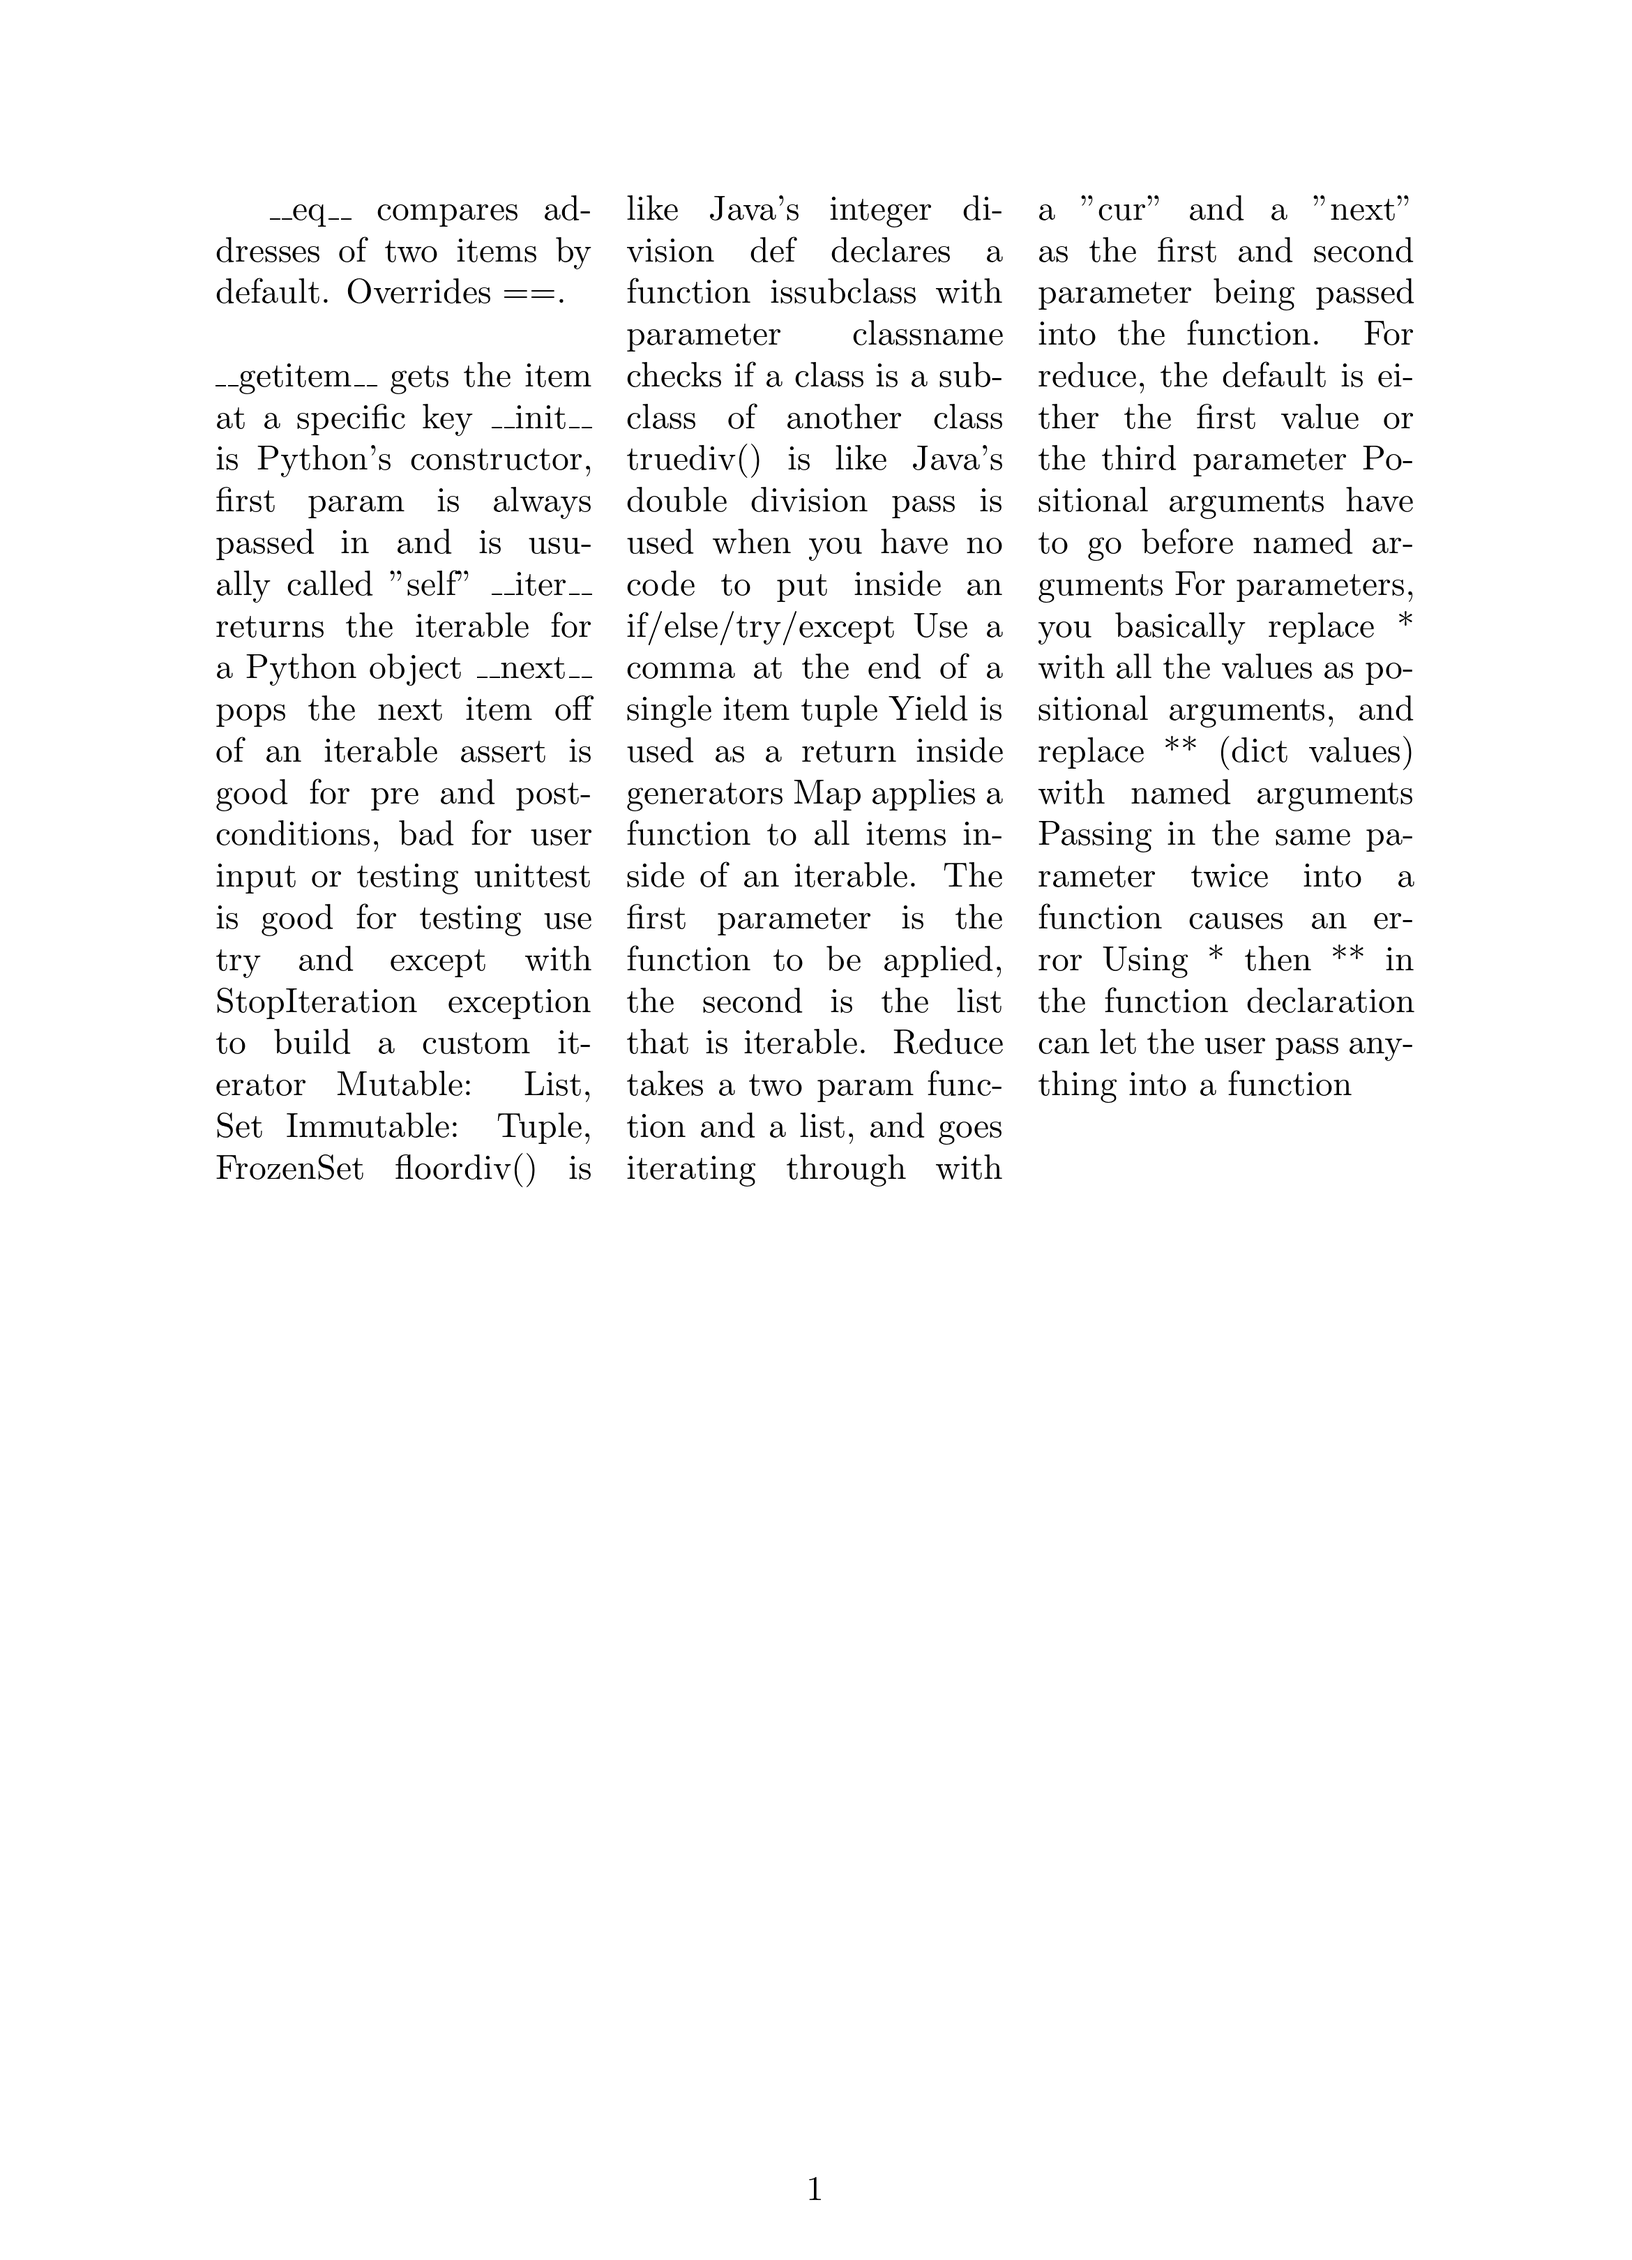
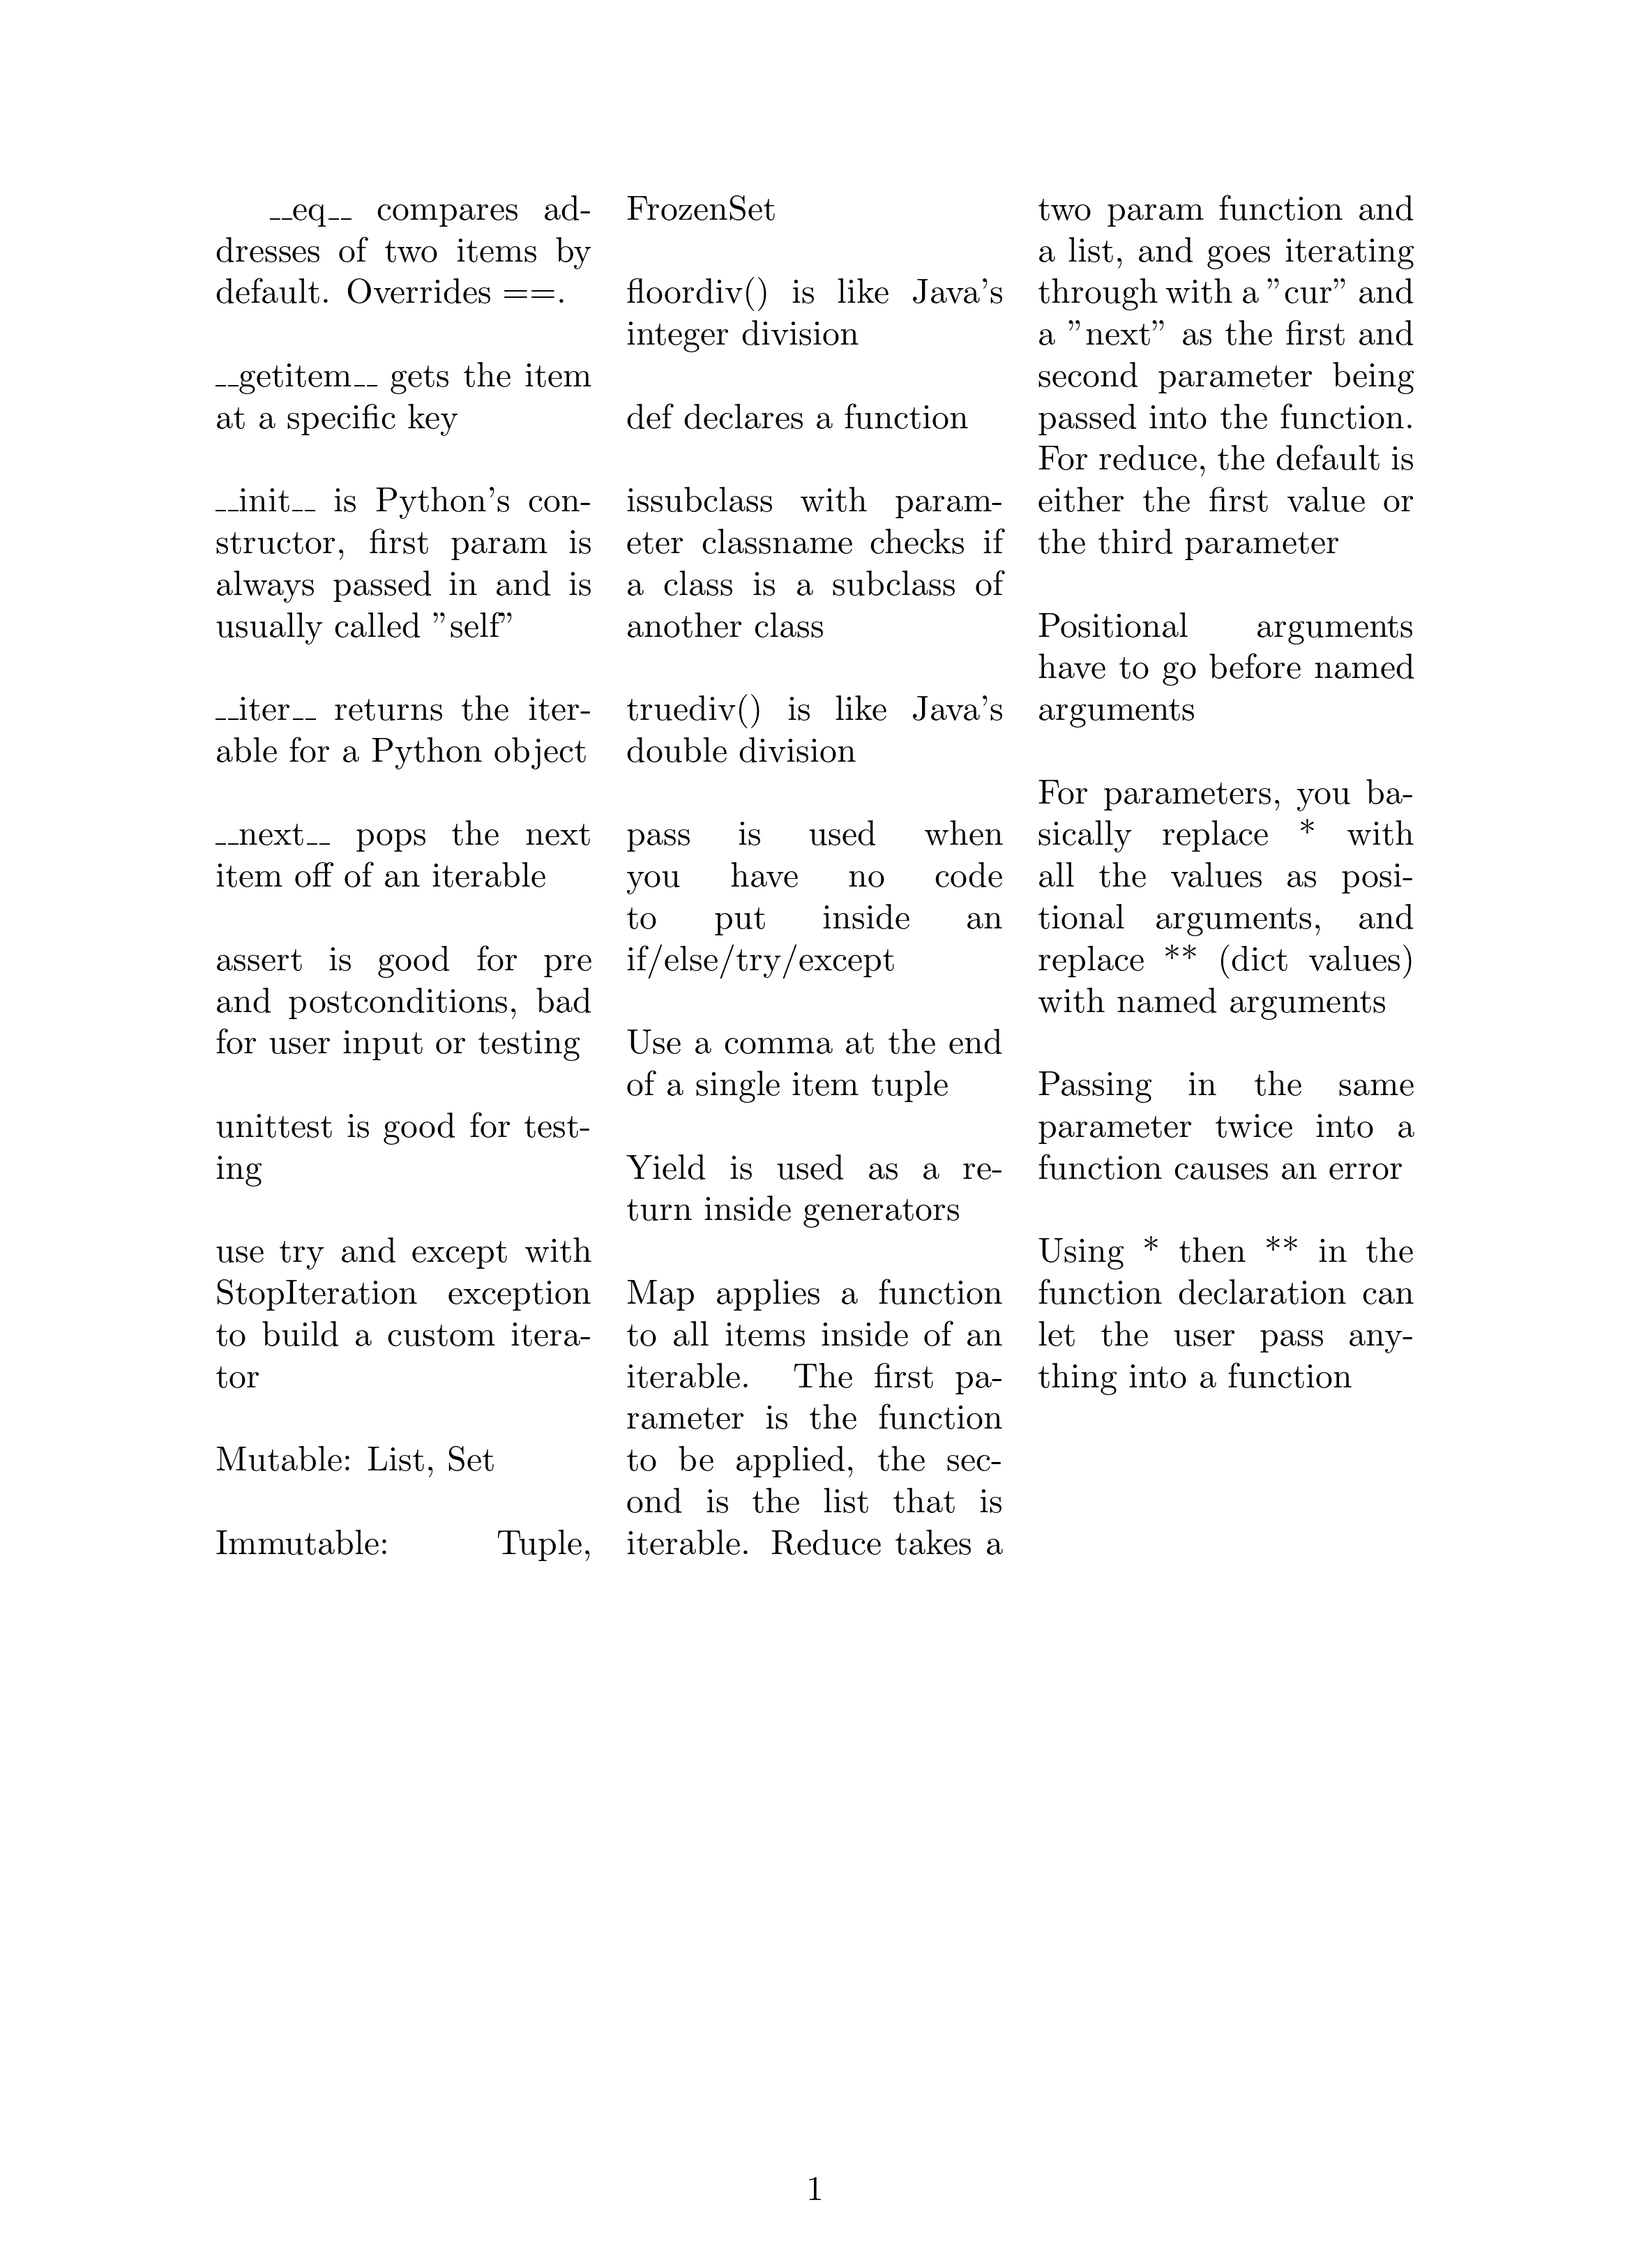
Fixed v1 formatting

diff --git a/Notes.tex b/Notes.tex
@@ -11,29 +11,29 @@
 \begin{multicols}{3}
 
 \_\_eq\_\_ compares addresses of two items by default. Overrides ==.\\\\
-\_\_getitem\_\_ gets the item at a specific key
-\_\_init\_\_ is Python's constructor, first param is always passed in and is usually called "self"
-\_\_iter\_\_ returns the iterable for a Python object
-\_\_next\_\_ pops the next item off of an iterable
-assert is good for pre and postconditions, bad for user input or testing
-unittest is good for testing
-use try and except with StopIteration exception to build a custom iterator
-Mutable: List, Set
-Immutable: Tuple, FrozenSet
-floordiv() is like Java's integer division
-def declares a function
-issubclass with parameter classname checks if a class is a subclass of another class
-truediv() is like Java's double division
-pass is used when you have no code to put inside an if/else/try/except
-Use a comma at the end of a single item tuple
-Yield is used as a return inside generators
+\_\_getitem\_\_ gets the item at a specific key\\\\
+\_\_init\_\_ is Python's constructor, first param is always passed in and is usually called "self"\\\\
+\_\_iter\_\_ returns the iterable for a Python object\\\\
+\_\_next\_\_ pops the next item off of an iterable\\\\
+assert is good for pre and postconditions, bad for user input or testing\\\\
+unittest is good for testing\\\\
+use try and except with StopIteration exception to build a custom iterator\\\\
+Mutable: List, Set\\\\
+Immutable: Tuple, FrozenSet\\\\
+floordiv() is like Java's integer division\\\\
+def declares a function\\\\
+issubclass with parameter classname checks if a class is a subclass of another class\\\\
+truediv() is like Java's double division\\\\
+pass is used when you have no code to put inside an if/else/try/except\\\\
+Use a comma at the end of a single item tuple\\\\
+Yield is used as a return inside generators\\\\
 Map applies a function to all items inside of an iterable. The first parameter is the function to be applied, the second is the list that is iterable.
 Reduce takes a two param function and a list, and goes iterating through with a "cur" and a "next" as the first and second parameter being passed into the function.
-For reduce, the default is either the first value or the third parameter
-Positional arguments have to go before named arguments
-For parameters, you basically replace * with all the values as positional arguments, and replace ** (dict values) with named arguments
-Passing in the same parameter twice into a function causes an error
-Using * then ** in the function declaration can let the user pass anything into a function
+For reduce, the default is either the first value or the third parameter\\\\
+Positional arguments have to go before named arguments\\\\
+For parameters, you basically replace * with all the values as positional arguments, and replace ** (dict values) with named arguments\\\\
+Passing in the same parameter twice into a function causes an error\\\\
+Using * then ** in the function declaration can let the user pass anything into a function\\\\
 
 \end{multicols}
 
